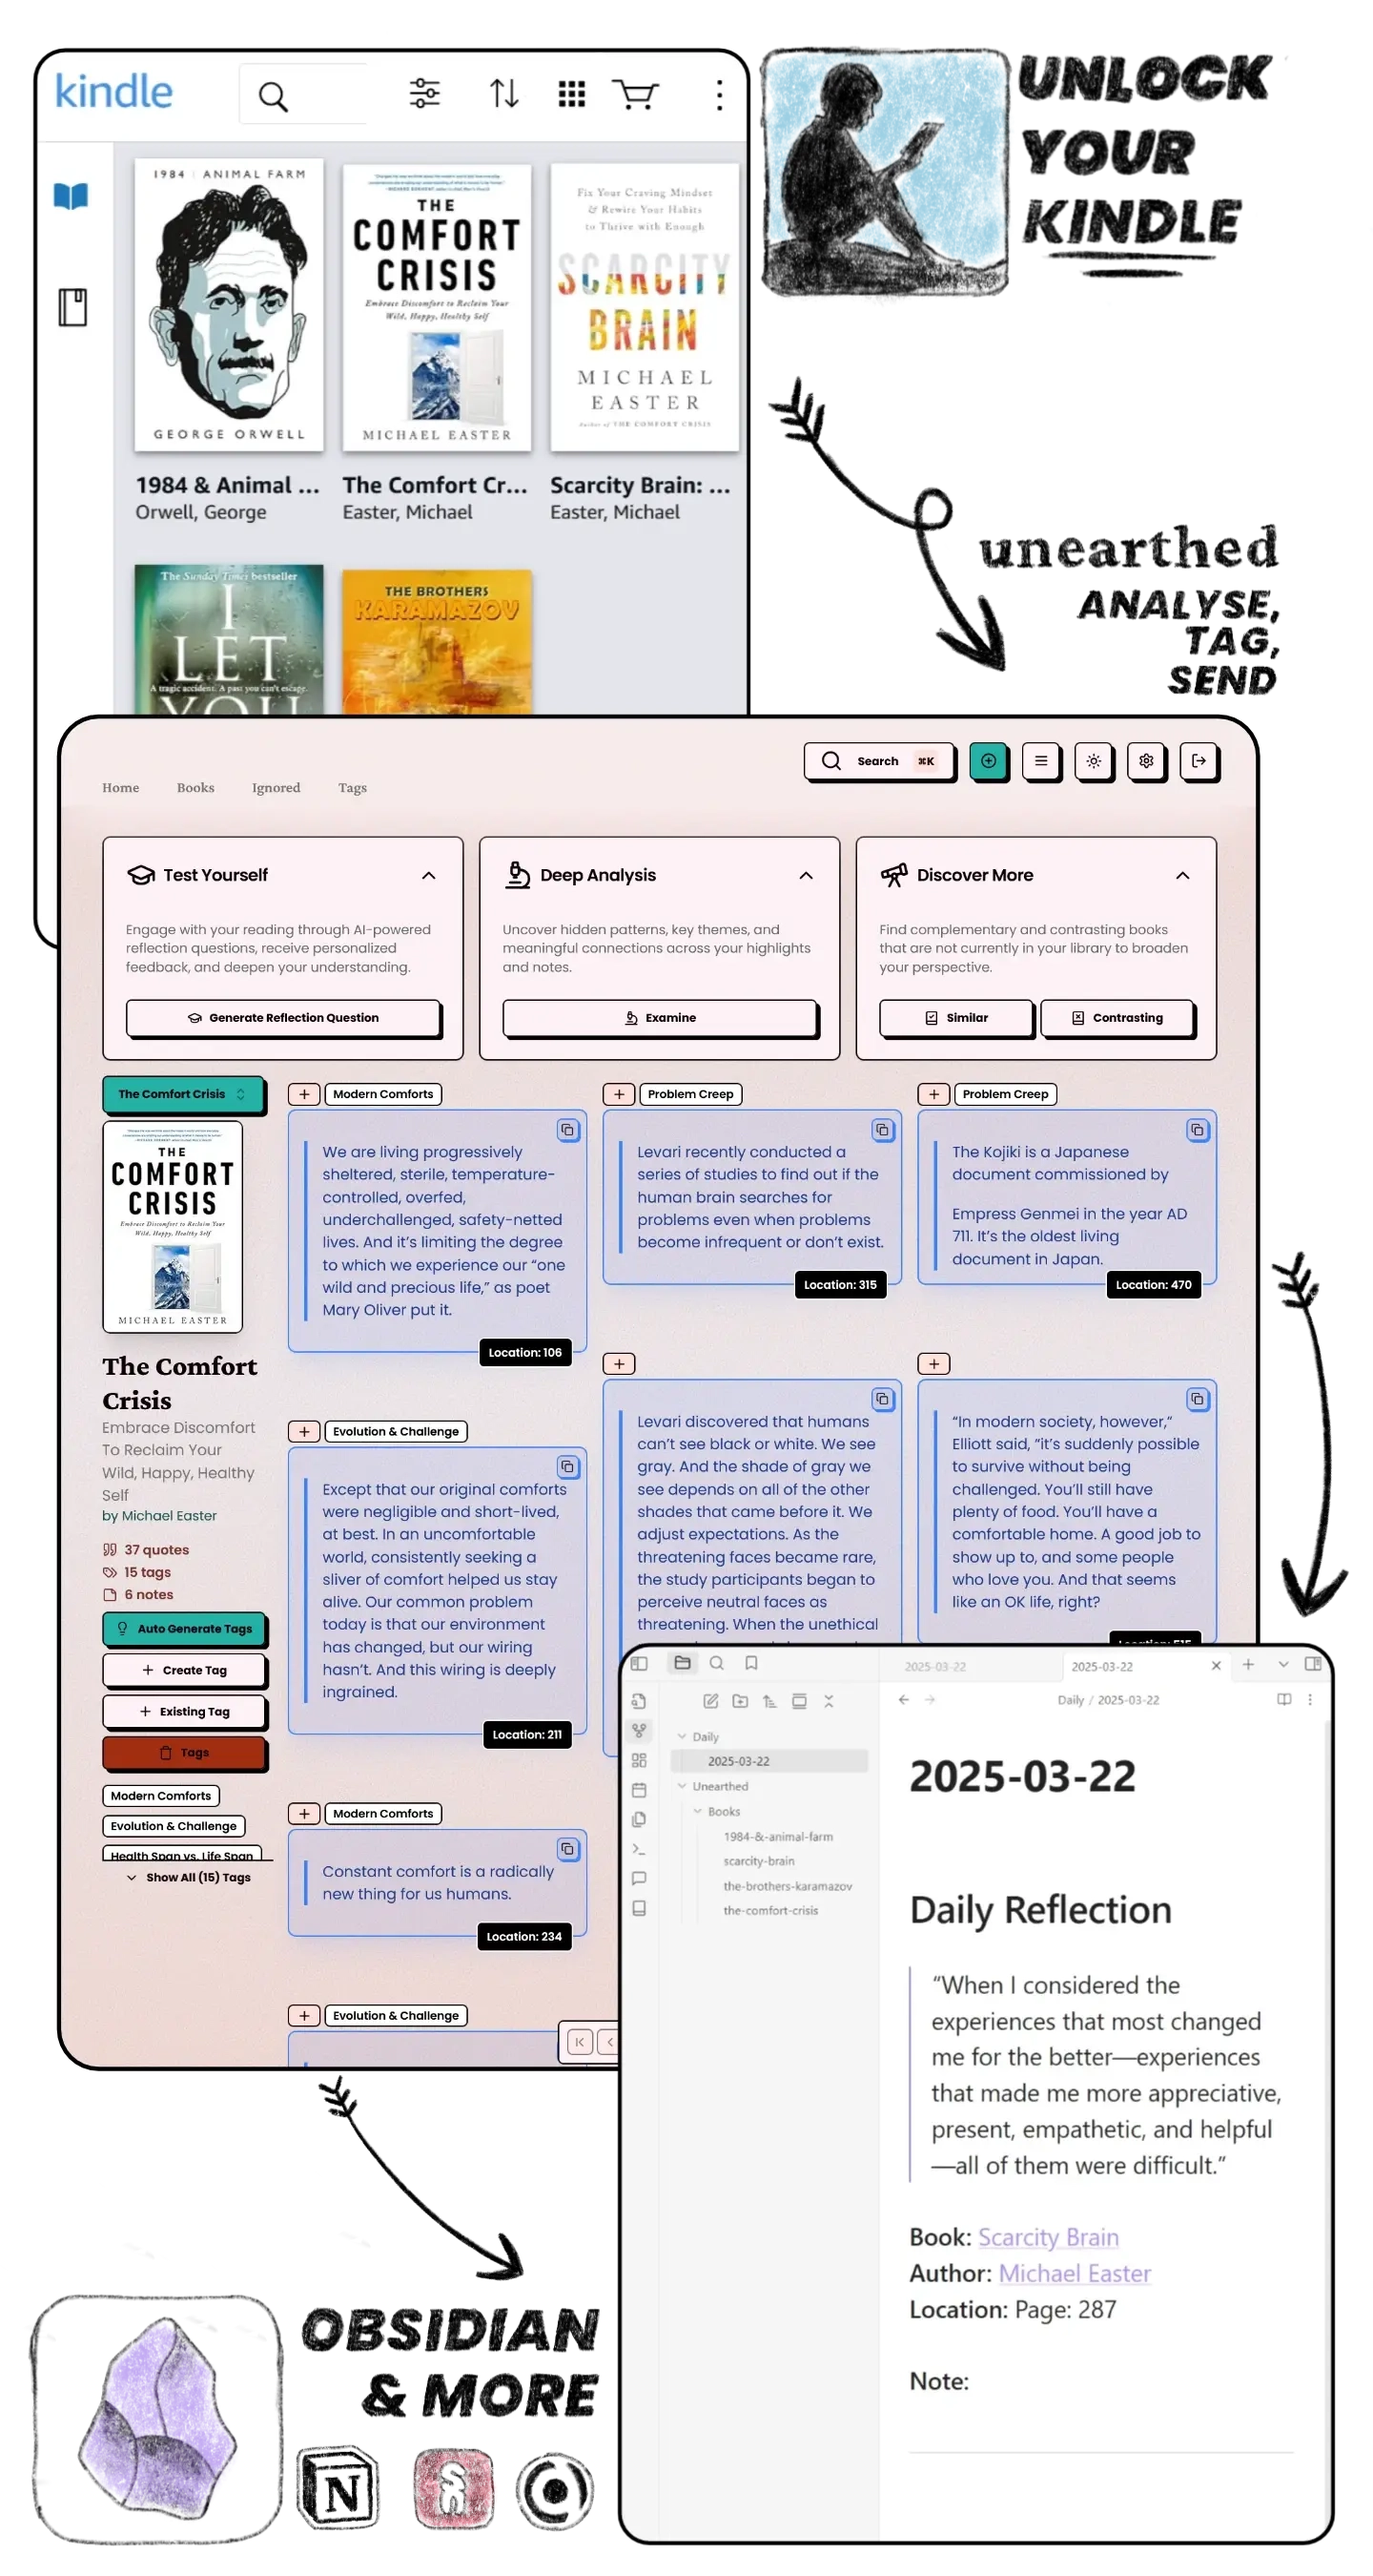
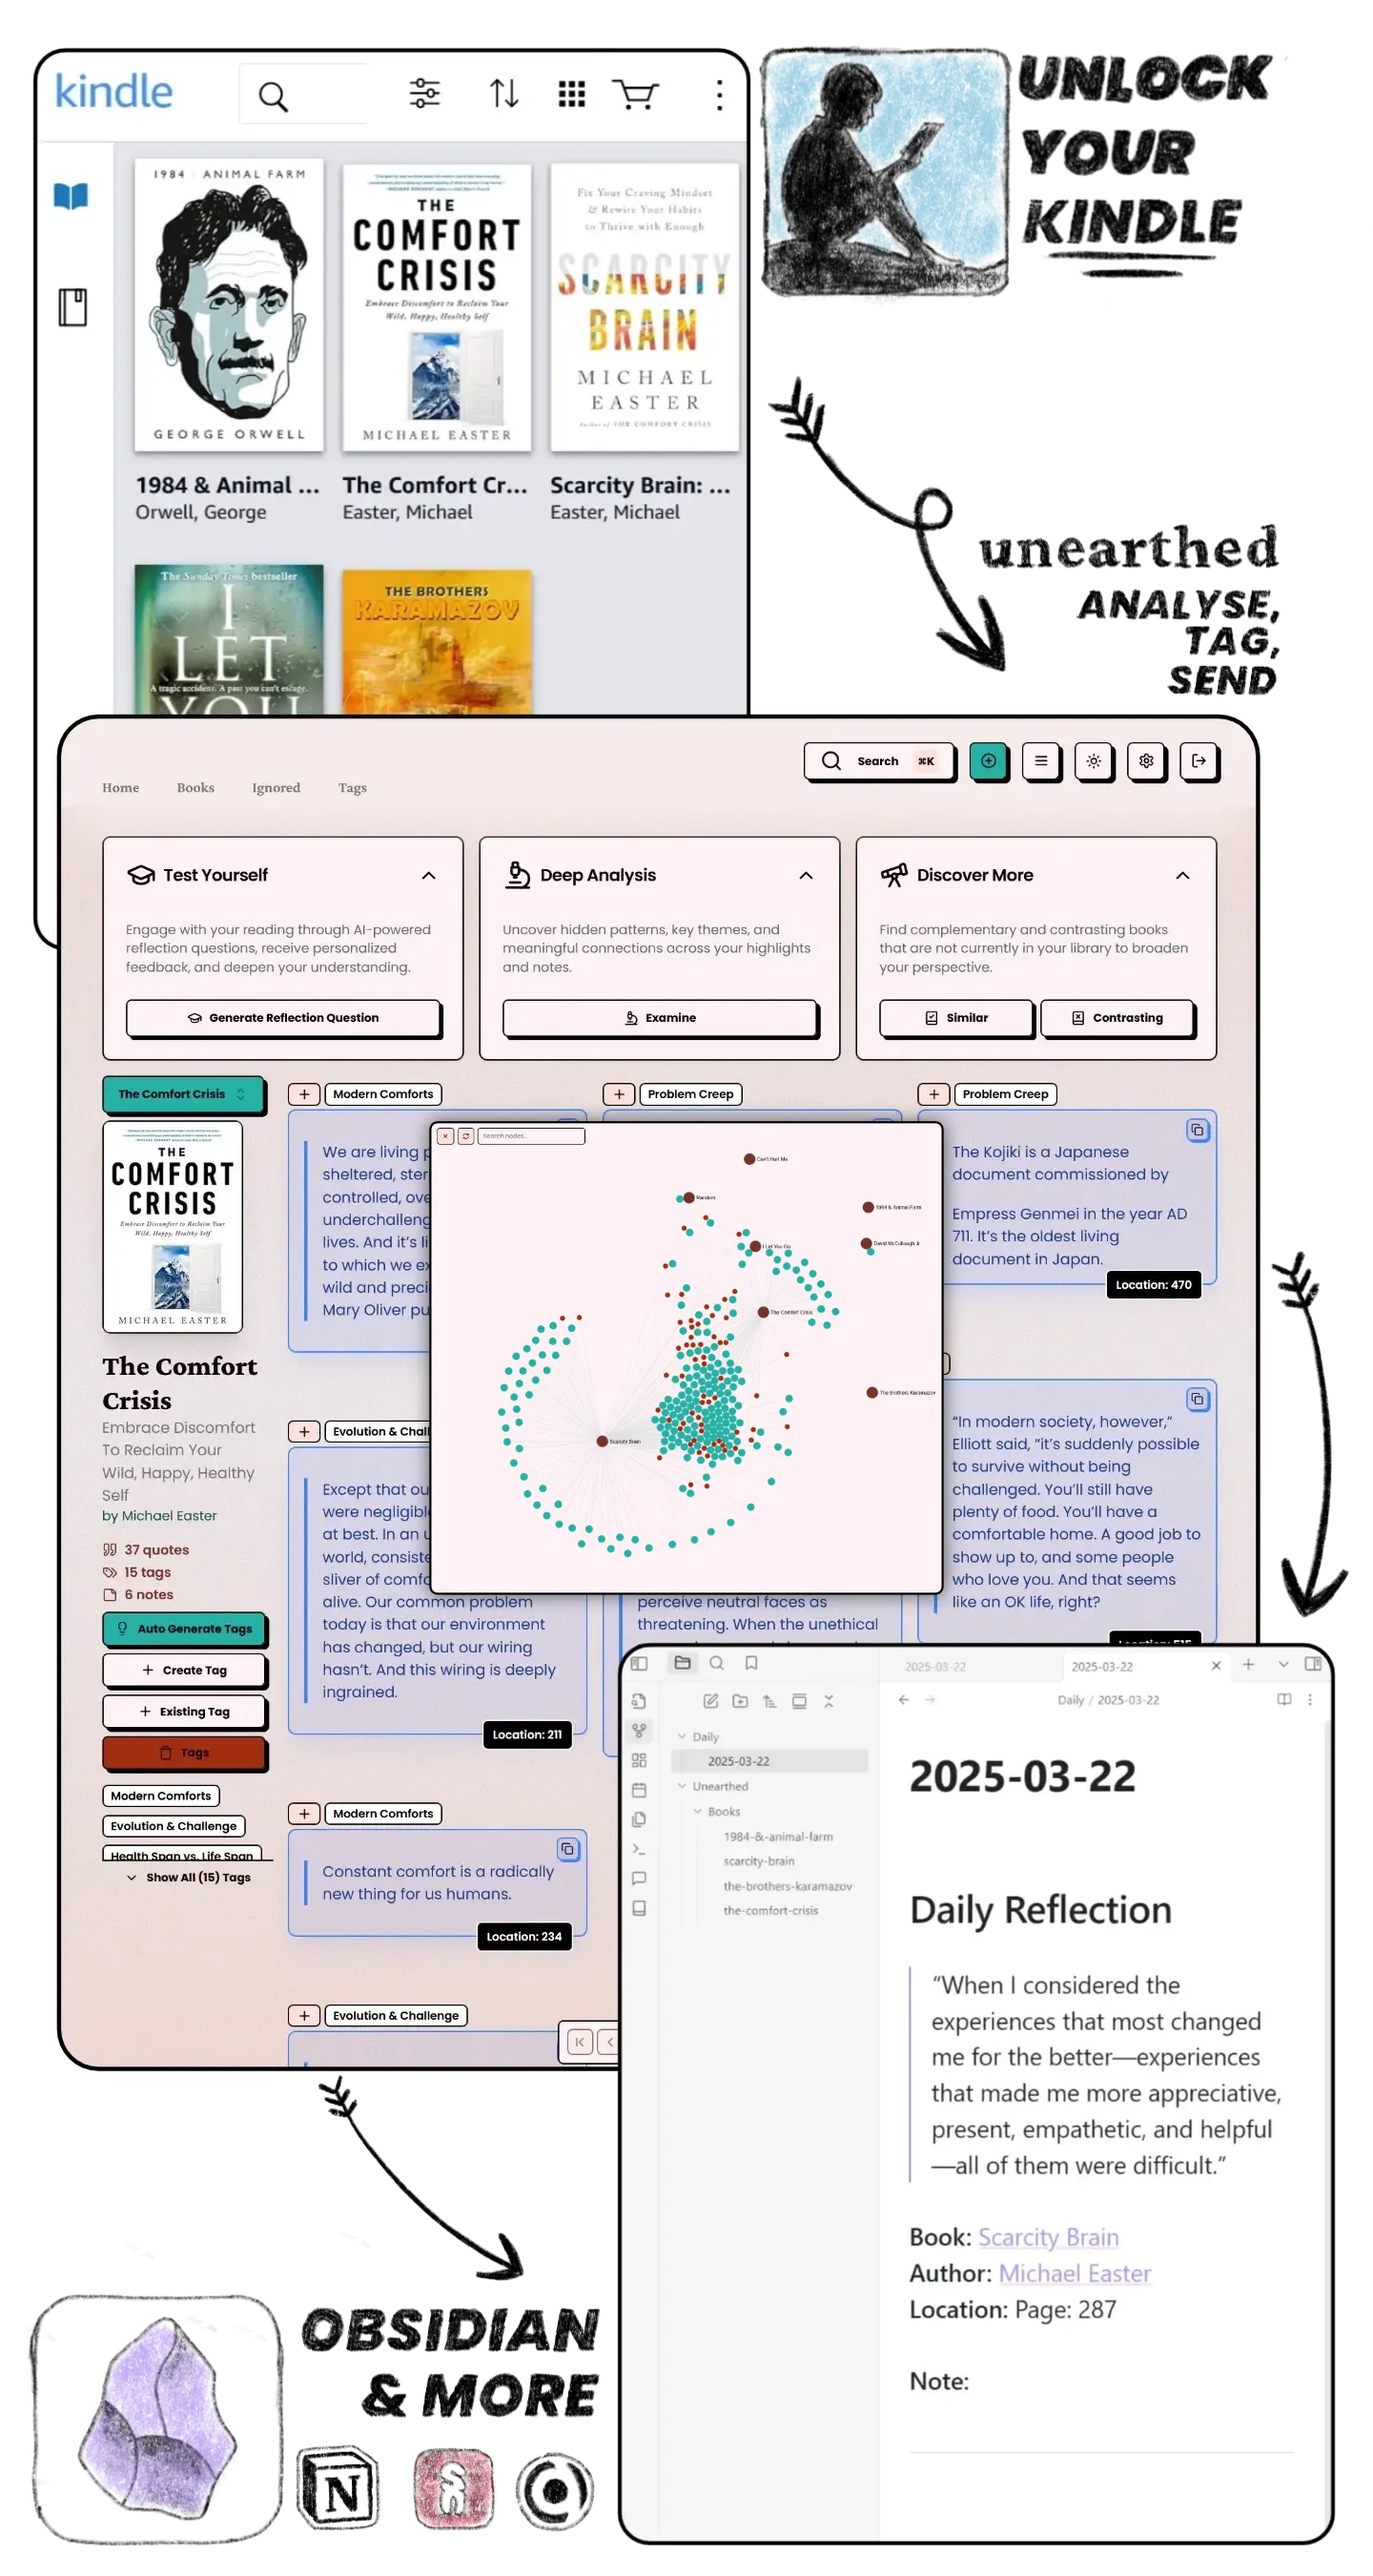
feature update

Changed region(s): [[0.2812, 0.4044, 0.7188, 0.6222]]

diff --git a/components/FeaturePremiumCard.tsx b/components/FeaturePremiumCard.tsx
@@ -32,7 +32,7 @@ export function FeaturePremiumCard({
   return (
     <div className="flex flex-wrap sm:flex-nowrap justify-center">
       <div className="sm:mr-2">
-        <div className="p-4 border-2 rounded-lg">
+        <div className="p-4 border-2 rounded-lg md:max-w-[330px]">
           <h1 className={crimsonPro.className + " font-extrabold text-4xl"}>
             Free
           </h1>
@@ -61,6 +61,10 @@ export function FeaturePremiumCard({
             variant="destructive"
           />
           <CheckItemSmall
+            content="Interactive map to visualize connections between books, quotes, notes, and tags"
+            variant="destructive"
+          />{" "}
+          <CheckItemSmall
             content="Book recommendations based on similar books"
             variant="destructive"
           />
@@ -72,12 +76,9 @@ export function FeaturePremiumCard({
             content="Personalized blind spot detection"
             variant="destructive"
           />
+          <CheckItemSmall content="Notion Sync" variant="destructive" />
           <CheckItemSmall
-            content="Everything synced to Notion"
-            variant="destructive"
-          />
-          <CheckItemSmall
-            content="Global Search for your notes"
+            content="Global Search for your notes and tags"
             variant="destructive"
           />
           <CheckItemSmall
@@ -111,9 +112,13 @@ export function FeaturePremiumCard({
           <CheckItemSmall
             content="Auto generate reflection questions, and have your answers rated"
             variant="destructive"
+          />{" "}
+          <CheckItemSmall
+            content="Tag your books and quotes, automatically and manually with inline text detection"
+            variant="destructive"
           />
           <CheckItemSmall
-            content="Tag your books and quotes, automatically and manually"
+            content="Apply tags globally to all relevant quotes/notes"
             variant="destructive"
           />
           <CheckItemSmall
@@ -121,7 +126,7 @@ export function FeaturePremiumCard({
             variant="destructive"
           />
           <CheckItemSmall
-            content="Help keep this app alive :)"
+            content="Help keep this app alive 🥹"
             variant="destructive"
           />
           {showButtons && (
@@ -132,7 +137,7 @@ export function FeaturePremiumCard({
         </div>
       </div>
       <div className="mt-4 sm:mt-0 sm:ml-2">
-        <div className="p-4 border-2 rounded-lg bg-card">
+        <div className="p-4 border-2 rounded-lg md:max-w-[330px] bg-card">
           <div className="flex space-x-2 items-center text-secondary">
             <Crown className="w-8 h-8 text-primary" />
             <h1 className={crimsonPro.className + " font-extrabold text-4xl"}>
@@ -160,11 +165,12 @@ export function FeaturePremiumCard({
           <CheckItemSmall content="Daily Reflection sent to Supernotes" />
           <CheckItemSmall content="Daily Reflection sent to Capacities" />
           <CheckItemSmall content="Daily Reflection emailed to you" />
+          <CheckItemSmall content="Interactive map to visualize connections between books, quotes, notes, and tags" />
           <CheckItemSmall content="Book recommendations based on similar books" />
           <CheckItemSmall content="Book recommendations based on opposing viewpoints" />
           <CheckItemSmall content="Personalized blind spot detection" />
-          <CheckItemSmall content="Everything synced to Notion" />
-          <CheckItemSmall content="Global Search for your notes" />
+          <CheckItemSmall content="Notion Sync" />
+          <CheckItemSmall content="Global Search for your notes and tags" />
           <CheckItemSmall content="Manually add Books/Authors" />
           <CheckItemSmall content="Manually add Quotes/Notes" />
           <CheckItemSmall content="Import from CSV files" />
@@ -173,9 +179,10 @@ export function FeaturePremiumCard({
           <CheckItemSmall content="AI chat with each book" />
           <CheckItemSmall content="Auto extract key ideas" />
           <CheckItemSmall content="Auto generate reflection questions, and have your answers rated" />
-          <CheckItemSmall content="Tag your books and quotes, automatically and manually" />
+          <CheckItemSmall content="Tag your books and quotes, automatically and manually with inline text detection" />
+          <CheckItemSmall content="Apply tags globally to all relevant quotes/notes" />
           <CheckItemSmall content="Generate book summary, themes, takeaways, reader's perspective" />
-          <CheckItemSmall content="Help keep this app alive :)" />
+          <CheckItemSmall content="Help keep this app alive ☺" />
           {showButtons && (
             <Link href="/dashboard/get-premium">
               <Button variant="brutalprimary" className="mt-2 w-full">

diff --git a/app/page.tsx b/app/page.tsx
@@ -229,29 +229,34 @@ export default async function App() {
               <HomeCarousel />
             </div>
 
-            <div className="w-full flex flex-wrap sm:flex-nowrap justify-center mt-8 px-2 md:px-4">
-              <SignUpButton>
-                <Button className="w-full md:w-auto mt-2 flex px-12 py-6 motion-preset-expand motion-duration-1500 motion-delay-[4000ms]">
-                  <LogIn className="mr-2" />
-                  <span className="text-base md:text-xl uppercase">
-                    Join for Free
-                  </span>
-                </Button>
-              </SignUpButton>
-              <Link href="/dashboard/get-premium" className="w-full md:w-auto">
-                <Button
-                  variant="brutalprimary"
-                  className="w-full md:w-auto mt-2 sm:ml-2 flex px-12 py-6 motion-preset-expand motion-duration-1500 motion-delay-[4000ms]"
-                >
-                  <Crown className="mr-2" />
-                  <span className="hover:ml-2 hover:motion-preset-confetti text-base md:text-xl uppercase group">
-                    Get Premium{" "}
-                    <span className="hidden group-hover:inline-block ml-1">
-                      ✨
+            <div className="w-full flex justify-center">
+              <div className="grid grid-cols-1 sm:grid-cols-2 gap-4 mt-8  max-w-[630px]">
+                <SignUpButton>
+                  <Button className="w-full mt-2 flex px-12 py-6 motion-preset-expand motion-duration-1500 motion-delay-[4000ms]">
+                    <LogIn className="mr-2" />
+                    <span className="text-base md:text-xl uppercase">
+                      Join for Free
                     </span>
-                  </span>
-                </Button>
-              </Link>
+                  </Button>
+                </SignUpButton>
+                <Link
+                  href="/dashboard/get-premium"
+                  className="w-full md:w-auto"
+                >
+                  <Button
+                    variant="brutalprimary"
+                    className="w-full mt-2 flex px-12 py-6 motion-preset-expand motion-duration-1500 motion-delay-[4000ms]"
+                  >
+                    <Crown className="mr-2" />
+                    <span className="hover:ml-2 hover:motion-preset-confetti text-base md:text-xl uppercase group">
+                      Get Premium{" "}
+                      <span className="hidden group-hover:inline-block ml-1">
+                        ✨
+                      </span>
+                    </span>
+                  </Button>
+                </Link>
+              </div>
             </div>
           </div>
           <FAQ />

diff --git a/components/HomeHeader.tsx b/components/HomeHeader.tsx
@@ -75,22 +75,29 @@ export const HomeHeader = () => {
         </div>
       </div>
 
-      <div className="w-full flex flex-wrap sm:flex-nowrap justify-center mt-8">
-        <SignUpButton>
-          <Button className="mt-2 flex px-12 py-6 motion-preset-expand motion-duration-1500 motion-delay-[4000ms]">
-            <span className="">Join for Free</span>
-            <LogIn className="ml-2" />
-          </Button>
-        </SignUpButton>
-        <Link href="/dashboard/get-premium">
-          <Button
-            variant="brutalprimary"
-            className="mt-2 sm:ml-2 flex px-12 py-6 motion-preset-expand motion-duration-1500 motion-delay-[4000ms]"
-          >
-            <span className="hover:motion-preset-confetti">Get Premium</span>
-            <Crown className="ml-2" />
-          </Button>
-        </Link>
+      <div className="w-full flex justify-center">
+        <div className="grid grid-cols-1 sm:grid-cols-2 gap-4 mt-8  max-w-[630px]">
+          <SignUpButton>
+            <Button className="w-full mt-2 flex px-12 py-6 motion-preset-expand motion-duration-1500 motion-delay-[4000ms]">
+              <LogIn className="mr-2" />
+              <span className="text-base md:text-xl uppercase">
+                Join for Free
+              </span>
+            </Button>
+          </SignUpButton>
+          <Link href="/dashboard/get-premium" className="w-full md:w-auto">
+            <Button
+              variant="brutalprimary"
+              className="w-full mt-2 flex px-12 py-6 motion-preset-expand motion-duration-1500 motion-delay-[4000ms]"
+            >
+              <Crown className="mr-2" />
+              <span className="hover:ml-2 hover:motion-preset-confetti text-base md:text-xl uppercase group">
+                Get Premium{" "}
+                <span className="hidden group-hover:inline-block ml-1">✨</span>
+              </span>
+            </Button>
+          </Link>
+        </div>
       </div>
 
       <div className="w-full relative bg-gradient-to-t from-popover via-bg-popover/10 to-transparent lg:px-12 mt-36">
